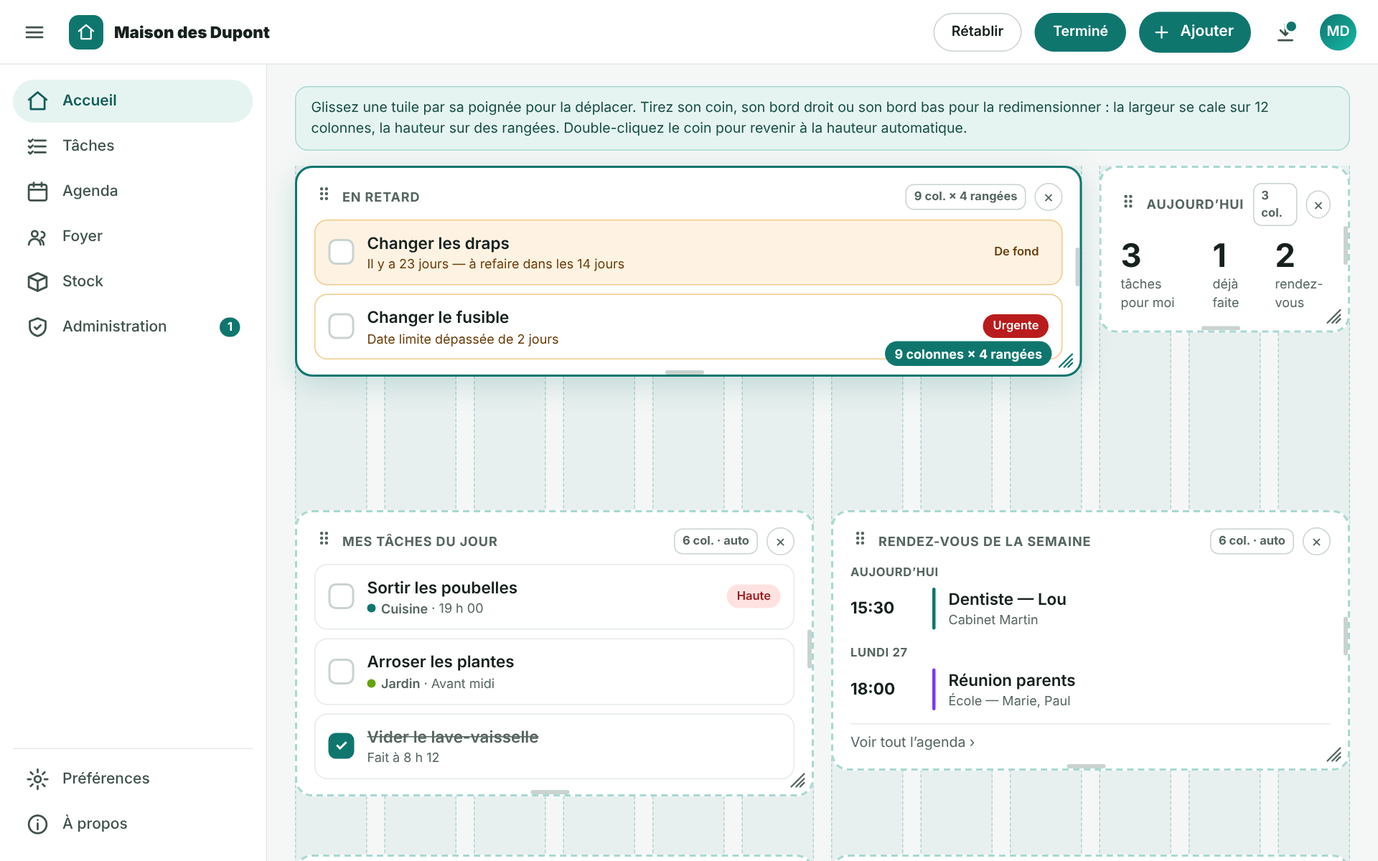
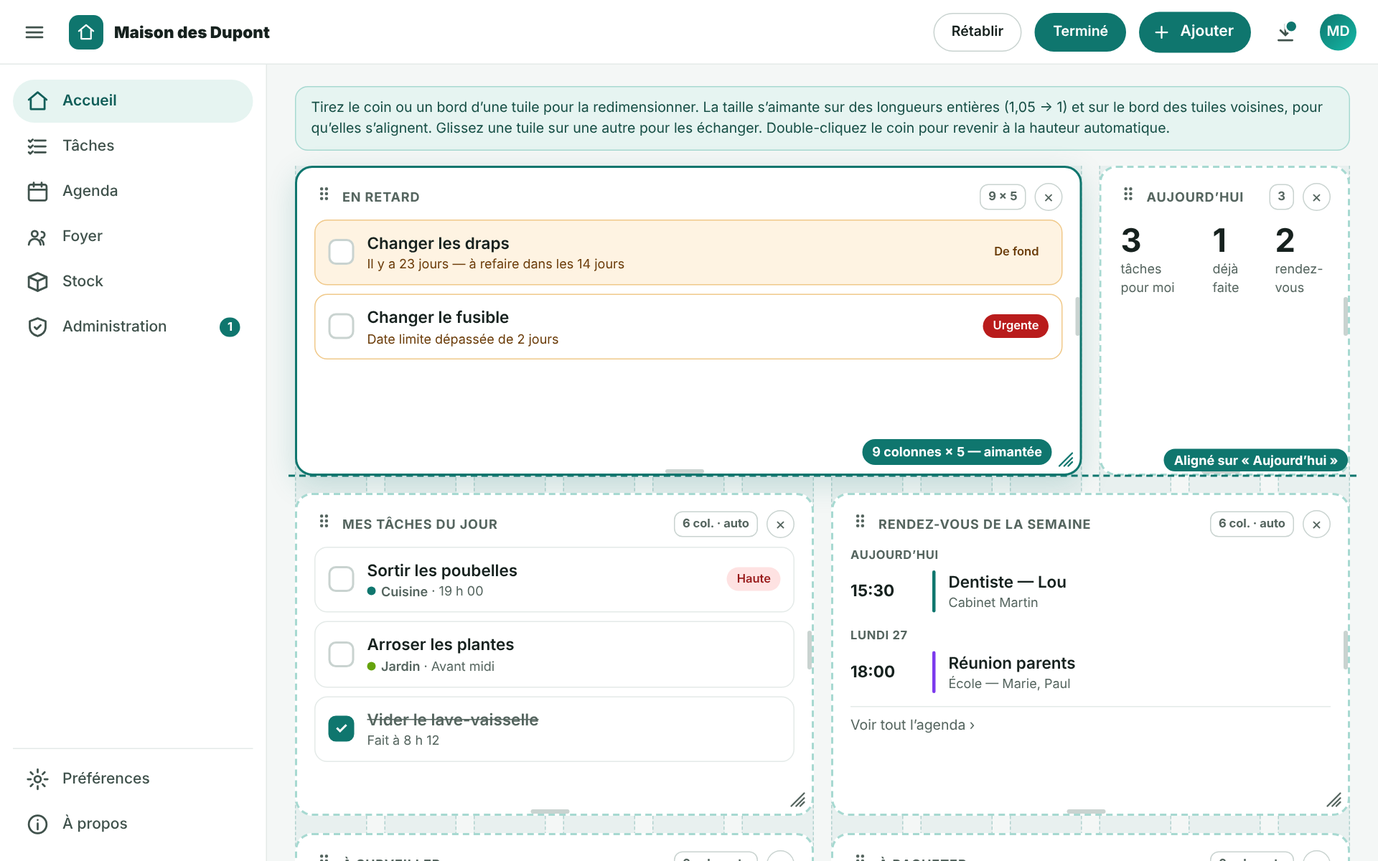
Maquettes : tuiles aimantées (longueurs entières, bord des voisines) et échange de deux tuiles
Claude-Session: https://claude.ai/code/session_01CwM8UZavZyFdh7jkANxEp5

diff --git a/docs/mockups/cadre/31-accueil-redimensionner.html b/docs/mockups/cadre/31-accueil-redimensionner.html
@@ -12,5 +12,5 @@
   <a class=" point" href="#"><svg viewBox="0 0 24 24" width="22" height="22" fill="none" stroke="currentColor" stroke-width="2" stroke-linecap="round" stroke-linejoin="round"><path d="M12 3 4 6v6c0 4.5 3.4 8 8 9 4.6-1 8-4.5 8-9V6z"/><path d="m9 12 2 2 4-4"/></svg><span>Administration</span><span class="pastille">1</span></a>
   <div class="bas"><a class=" " href="#"><svg viewBox="0 0 24 24" width="22" height="22" fill="none" stroke="currentColor" stroke-width="2" stroke-linecap="round" stroke-linejoin="round"><circle cx="12" cy="12" r="3.2"/><path d="M12 2v3M12 19v3M2 12h3M19 12h3M4.9 4.9l2.1 2.1M17 17l2.1 2.1M4.9 19.1 7 17M17 7l2.1-2.1"/></svg><span>Préférences</span></a><a class=" " href="#"><svg viewBox="0 0 24 24" width="22" height="22" fill="none" stroke="currentColor" stroke-width="2" stroke-linecap="round" stroke-linejoin="round"><circle cx="12" cy="12" r="9"/><path d="M12 11v6M12 7.5h.01"/></svg><span>À propos</span></a></div>
   
-</nav><div class="principal"><main class="contenu" style="gap:14px;padding:20px 26px;overflow:hidden"><div class="bandeau-edition">Glissez une tuile par sa poignée pour la déplacer. Tirez son coin, son bord droit ou son bord bas pour la redimensionner : la largeur se cale sur 12 colonnes, la hauteur sur des rangées. Double-cliquez le coin pour revenir à la hauteur automatique.</div><div class="tuiles edition libres"><div class="guides"><i></i><i></i><i></i><i></i><i></i><i></i><i></i><i></i><i></i><i></i><i></i><i></i></div><section class="tuile t8 saisie-en-cours" style="grid-column:span 9;grid-row:span 4"><div class="tete"><span class="poignee"><svg viewBox="0 0 24 24" width="18" height="18" fill="none" stroke="currentColor" stroke-width="2" stroke-linecap="round" stroke-linejoin="round"><circle cx="9" cy="6" r="1"/><circle cx="15" cy="6" r="1"/><circle cx="9" cy="12" r="1"/><circle cx="15" cy="12" r="1"/><circle cx="9" cy="18" r="1"/><circle cx="15" cy="18" r="1"/></svg></span><h2>En retard</h2><span class="taille-texte">9 col. × 4 rangées</span><span class="retirer">×</span></div><div class="carte retard fond"><div class="ligne"><div class="case"></div><div style="flex:1;min-width:0"><h3>Changer les draps</h3><p class="muet alerte">Il y a 23 jours — à refaire dans les 14 jours</p></div><span class="etiquette fond">De fond</span></div></div><div class="carte retard"><div class="ligne"><div class="case"></div><div style="flex:1;min-width:0"><h3>Changer le fusible</h3><p class="muet alerte">Date limite dépassée de 2 jours</p></div><span class="etiquette urgente">Urgente</span></div></div><span class="bord-d"></span><span class="bord-b"></span><svg class="coin" viewBox="0 0 24 24" fill="none" stroke="currentColor" stroke-width="2" stroke-linecap="round"><path d="M20 10 10 20M20 15l-5 5M20 4 4 20"/></svg><span class="mesure">9 colonnes × 4 rangées</span></section><section class="tuile t4" style="grid-column:span 3;grid-row:span 3"><div class="tete"><span class="poignee"><svg viewBox="0 0 24 24" width="18" height="18" fill="none" stroke="currentColor" stroke-width="2" stroke-linecap="round" stroke-linejoin="round"><circle cx="9" cy="6" r="1"/><circle cx="15" cy="6" r="1"/><circle cx="9" cy="12" r="1"/><circle cx="15" cy="12" r="1"/><circle cx="9" cy="18" r="1"/><circle cx="15" cy="18" r="1"/></svg></span><h2>Aujourd’hui</h2><span class="taille-texte">3 col.</span><span class="retirer">×</span></div><div class="ligne" style="gap:22px;padding:4px 2px"><div><div class="chiffre">3</div><p class="muet">tâches pour moi</p></div><div><div class="chiffre" style="color:var(--succes)">1</div><p class="muet">déjà faite</p></div><div><div class="chiffre">2</div><p class="muet">rendez-vous</p></div></div><span class="bord-d"></span><span class="bord-b"></span><svg class="coin" viewBox="0 0 24 24" fill="none" stroke="currentColor" stroke-width="2" stroke-linecap="round"><path d="M20 10 10 20M20 15l-5 5M20 4 4 20"/></svg></section><section class="tuile t6" style="grid-row:span 4"><div class="tete"><span class="poignee"><svg viewBox="0 0 24 24" width="18" height="18" fill="none" stroke="currentColor" stroke-width="2" stroke-linecap="round" stroke-linejoin="round"><circle cx="9" cy="6" r="1"/><circle cx="15" cy="6" r="1"/><circle cx="9" cy="12" r="1"/><circle cx="15" cy="12" r="1"/><circle cx="9" cy="18" r="1"/><circle cx="15" cy="18" r="1"/></svg></span><h2>Mes tâches du jour</h2><span class="taille-texte">6 col. · auto</span><span class="retirer">×</span></div><div class="carte"><div class="ligne"><div class="case"></div><div style="flex:1;min-width:0"><h3>Sortir les poubelles</h3><p class="muet "><span class="groupe-tache"><i style="background:#0F766E"></i>Cuisine</span> · 19 h 00</p></div><span class="etiquette haute">Haute</span></div></div><div class="carte"><div class="ligne"><div class="case"></div><div style="flex:1;min-width:0"><h3>Arroser les plantes</h3><p class="muet "><span class="groupe-tache"><i style="background:#65A30D"></i>Jardin</span> · Avant midi</p></div></div></div><div class="carte fait"><div class="ligne"><div class="case cochee">✓</div><div style="flex:1;min-width:0"><h3>Vider le lave-vaisselle</h3><p class="muet ">Fait à 8 h 12</p></div></div></div><span class="bord-d"></span><span class="bord-b"></span><svg class="coin" viewBox="0 0 24 24" fill="none" stroke="currentColor" stroke-width="2" stroke-linecap="round"><path d="M20 10 10 20M20 15l-5 5M20 4 4 20"/></svg></section><section class="tuile t6" style="grid-row:span 4"><div class="tete"><span class="poignee"><svg viewBox="0 0 24 24" width="18" height="18" fill="none" stroke="currentColor" stroke-width="2" stroke-linecap="round" stroke-linejoin="round"><circle cx="9" cy="6" r="1"/><circle cx="15" cy="6" r="1"/><circle cx="9" cy="12" r="1"/><circle cx="15" cy="12" r="1"/><circle cx="9" cy="18" r="1"/><circle cx="15" cy="18" r="1"/></svg></span><h2>Rendez-vous de la semaine</h2><span class="taille-texte">6 col. · auto</span><span class="retirer">×</span></div><div><div class="jour-rdv" style="padding-top:0">Aujourd’hui</div><div class="rdv"><span class="heure">15:30</span><span class="trait" style="background:#0F766E"></span><div><h3>Dentiste — Lou</h3><p class="muet">Cabinet Martin</p></div></div><div class="jour-rdv">Lundi 27</div><div class="rdv"><span class="heure">18:00</span><span class="trait" style="background:#7C3AED"></span><div><h3>Réunion parents</h3><p class="muet">École — Marie, Paul</p></div></div><div class="lien">Voir tout l’agenda ›</div></div><span class="bord-d"></span><span class="bord-b"></span><svg class="coin" viewBox="0 0 24 24" fill="none" stroke="currentColor" stroke-width="2" stroke-linecap="round"><path d="M20 10 10 20M20 15l-5 5M20 4 4 20"/></svg></section><section class="tuile t6" style="grid-row:span 4"><div class="tete"><span class="poignee"><svg viewBox="0 0 24 24" width="18" height="18" fill="none" stroke="currentColor" stroke-width="2" stroke-linecap="round" stroke-linejoin="round"><circle cx="9" cy="6" r="1"/><circle cx="15" cy="6" r="1"/><circle cx="9" cy="12" r="1"/><circle cx="15" cy="12" r="1"/><circle cx="9" cy="18" r="1"/><circle cx="15" cy="18" r="1"/></svg></span><h2>À surveiller</h2><span class="taille-texte">6 col. · auto</span><span class="retirer">×</span></div><div class="carte"><div class="ligne"><div style="flex:1"><h3>Détartrer la bouilloire</h3><p class="muet">Il y a 25 jours — à refaire dans les 30 jours</p></div><span style="font-size:13px;font-weight:600;color:var(--accent)">C’est fait</span></div><div class="jauge"><span style="width:83%;background:#B45309"></span></div></div><span class="bord-d"></span><span class="bord-b"></span><svg class="coin" viewBox="0 0 24 24" fill="none" stroke="currentColor" stroke-width="2" stroke-linecap="round"><path d="M20 10 10 20M20 15l-5 5M20 4 4 20"/></svg></section><section class="tuile t6" style="grid-row:span 4"><div class="tete"><span class="poignee"><svg viewBox="0 0 24 24" width="18" height="18" fill="none" stroke="currentColor" stroke-width="2" stroke-linecap="round" stroke-linejoin="round"><circle cx="9" cy="6" r="1"/><circle cx="15" cy="6" r="1"/><circle cx="9" cy="12" r="1"/><circle cx="15" cy="12" r="1"/><circle cx="9" cy="18" r="1"/><circle cx="15" cy="18" r="1"/></svg></span><h2>À racheter</h2><span class="taille-texte">6 col. · auto</span><span class="retirer">×</span></div><div class="carte"><div class="ligne"><span class="vignette" style="background:#78350F"><svg viewBox="0 0 24 24" width="16" height="16" fill="none" stroke="currentColor" stroke-width="2" stroke-linecap="round" stroke-linejoin="round"><path d="M4 8h13v6a5 5 0 0 1-5 5H9a5 5 0 0 1-5-5zM17 10h2a2 2 0 0 1 0 4h-2M8 3v2M12 3v2"/></svg></span><div style="flex:1"><h3>Café en grains</h3><p class="muet">Garde-manger · 1 sur 2 minimum</p></div><span class="lien-ext">Racheter ↗</span></div></div><div class="carte"><div class="ligne"><span class="vignette" style="background:#65A30D"><svg viewBox="0 0 24 24" width="16" height="16" fill="none" stroke="currentColor" stroke-width="2" stroke-linecap="round" stroke-linejoin="round"><path d="M12 7c-2-2-7-1.5-7 4 0 5 3 9 5 9 1 0 1.5-.5 2-.5s1 .5 2 .5c2 0 5-4 5-9 0-5.5-5-6-7-4zM12 7c0-2 1-4 3-4"/></svg></span><div style="flex:1"><h3>Compote</h3><p class="muet alerte">Périmée depuis 2 jours</p></div></div></div><div class="carte"><div class="ligne"><span class="vignette" style="background:#B91C1C"><svg viewBox="0 0 24 24" width="16" height="16" fill="none" stroke="currentColor" stroke-width="2" stroke-linecap="round" stroke-linejoin="round"><ellipse cx="12" cy="5" rx="7" ry="2.5"/><path d="M5 5v14c0 1.4 3.1 2.5 7 2.5s7-1.1 7-2.5V5"/></svg></span><div style="flex:1"><h3>Tomates pelées</h3><p class="muet">Périment dans 9 jours</p></div></div></div><span class="bord-d"></span><span class="bord-b"></span><svg class="coin" viewBox="0 0 24 24" fill="none" stroke="currentColor" stroke-width="2" stroke-linecap="round"><path d="M20 10 10 20M20 15l-5 5M20 4 4 20"/></svg></section><section class="tuile t6" style="grid-row:span 4"><div class="tete"><span class="poignee"><svg viewBox="0 0 24 24" width="18" height="18" fill="none" stroke="currentColor" stroke-width="2" stroke-linecap="round" stroke-linejoin="round"><circle cx="9" cy="6" r="1"/><circle cx="15" cy="6" r="1"/><circle cx="9" cy="12" r="1"/><circle cx="15" cy="12" r="1"/><circle cx="9" cy="18" r="1"/><circle cx="15" cy="18" r="1"/></svg></span><h2>À faire par les autres</h2><span class="taille-texte">6 col. · auto</span><span class="retirer">×</span></div><div class="carte"><div class="ligne"><span class="photo" style="width:28px;height:28px;font-size:11px;background:#7C3AED">L</span><div style="flex:1"><h3>Passer l’aspirateur</h3><p class="muet">Aujourd’hui</p></div></div></div><div class="carte"><div class="ligne"><span class="photo" style="width:28px;height:28px;font-size:11px;background:#B45309">P</span><div style="flex:1"><h3>Promener le chien</h3><p class="muet">18 h 30</p></div></div></div><span class="bord-d"></span><span class="bord-b"></span><svg class="coin" viewBox="0 0 24 24" fill="none" stroke="currentColor" stroke-width="2" stroke-linecap="round"><path d="M20 10 10 20M20 15l-5 5M20 4 4 20"/></svg></section><div class="ajout-tuile"><span style="font-size:26px;line-height:1">+</span>Ajouter une tuile</div></div></main></div></div>
+</nav><div class="principal"><main class="contenu" style="gap:14px;padding:20px 26px;overflow:hidden"><div class="bandeau-edition">Tirez le coin ou un bord d’une tuile pour la redimensionner. La taille s’aimante sur des longueurs entières (1,05 → 1) et sur le bord des tuiles voisines, pour qu’elles s’alignent. Glissez une tuile sur une autre pour les échanger. Double-cliquez le coin pour revenir à la hauteur automatique.</div><div class="tuiles edition libres" style="grid-auto-rows:auto"><div class="repere" style="top:287px"><span>Aligné sur « Aujourd’hui »</span></div><div class="guides"><i></i><i></i><i></i><i></i><i></i><i></i><i></i><i></i><i></i><i></i><i></i><i></i></div><section class="tuile t8 saisie-en-cours" style="grid-column:span 9;height:288px"><div class="tete"><span class="poignee"><svg viewBox="0 0 24 24" width="18" height="18" fill="none" stroke="currentColor" stroke-width="2" stroke-linecap="round" stroke-linejoin="round"><circle cx="9" cy="6" r="1"/><circle cx="15" cy="6" r="1"/><circle cx="9" cy="12" r="1"/><circle cx="15" cy="12" r="1"/><circle cx="9" cy="18" r="1"/><circle cx="15" cy="18" r="1"/></svg></span><h2>En retard</h2><span class="taille-texte">9 × 5</span><span class="retirer">×</span></div><div class="carte retard fond"><div class="ligne"><div class="case"></div><div style="flex:1;min-width:0"><h3>Changer les draps</h3><p class="muet alerte">Il y a 23 jours — à refaire dans les 14 jours</p></div><span class="etiquette fond">De fond</span></div></div><div class="carte retard"><div class="ligne"><div class="case"></div><div style="flex:1;min-width:0"><h3>Changer le fusible</h3><p class="muet alerte">Date limite dépassée de 2 jours</p></div><span class="etiquette urgente">Urgente</span></div></div><span class="bord-d"></span><span class="bord-b"></span><svg class="coin" viewBox="0 0 24 24" fill="none" stroke="currentColor" stroke-width="2" stroke-linecap="round"><path d="M20 10 10 20M20 15l-5 5M20 4 4 20"/></svg><span class="mesure">9 colonnes × 5 — aimantée</span></section><section class="tuile t4" style="grid-column:span 3;height:288px"><div class="tete"><span class="poignee"><svg viewBox="0 0 24 24" width="18" height="18" fill="none" stroke="currentColor" stroke-width="2" stroke-linecap="round" stroke-linejoin="round"><circle cx="9" cy="6" r="1"/><circle cx="15" cy="6" r="1"/><circle cx="9" cy="12" r="1"/><circle cx="15" cy="12" r="1"/><circle cx="9" cy="18" r="1"/><circle cx="15" cy="18" r="1"/></svg></span><h2>Aujourd’hui</h2><span class="taille-texte">3</span><span class="retirer">×</span></div><div class="ligne" style="gap:22px;padding:4px 2px"><div><div class="chiffre">3</div><p class="muet">tâches pour moi</p></div><div><div class="chiffre" style="color:var(--succes)">1</div><p class="muet">déjà faite</p></div><div><div class="chiffre">2</div><p class="muet">rendez-vous</p></div></div><span class="bord-d"></span><span class="bord-b"></span><svg class="coin" viewBox="0 0 24 24" fill="none" stroke="currentColor" stroke-width="2" stroke-linecap="round"><path d="M20 10 10 20M20 15l-5 5M20 4 4 20"/></svg></section><section class="tuile t6" style="height:300px"><div class="tete"><span class="poignee"><svg viewBox="0 0 24 24" width="18" height="18" fill="none" stroke="currentColor" stroke-width="2" stroke-linecap="round" stroke-linejoin="round"><circle cx="9" cy="6" r="1"/><circle cx="15" cy="6" r="1"/><circle cx="9" cy="12" r="1"/><circle cx="15" cy="12" r="1"/><circle cx="9" cy="18" r="1"/><circle cx="15" cy="18" r="1"/></svg></span><h2>Mes tâches du jour</h2><span class="taille-texte">6 col. · auto</span><span class="retirer">×</span></div><div class="carte"><div class="ligne"><div class="case"></div><div style="flex:1;min-width:0"><h3>Sortir les poubelles</h3><p class="muet "><span class="groupe-tache"><i style="background:#0F766E"></i>Cuisine</span> · 19 h 00</p></div><span class="etiquette haute">Haute</span></div></div><div class="carte"><div class="ligne"><div class="case"></div><div style="flex:1;min-width:0"><h3>Arroser les plantes</h3><p class="muet "><span class="groupe-tache"><i style="background:#65A30D"></i>Jardin</span> · Avant midi</p></div></div></div><div class="carte fait"><div class="ligne"><div class="case cochee">✓</div><div style="flex:1;min-width:0"><h3>Vider le lave-vaisselle</h3><p class="muet ">Fait à 8 h 12</p></div></div></div><span class="bord-d"></span><span class="bord-b"></span><svg class="coin" viewBox="0 0 24 24" fill="none" stroke="currentColor" stroke-width="2" stroke-linecap="round"><path d="M20 10 10 20M20 15l-5 5M20 4 4 20"/></svg></section><section class="tuile t6" style="height:300px"><div class="tete"><span class="poignee"><svg viewBox="0 0 24 24" width="18" height="18" fill="none" stroke="currentColor" stroke-width="2" stroke-linecap="round" stroke-linejoin="round"><circle cx="9" cy="6" r="1"/><circle cx="15" cy="6" r="1"/><circle cx="9" cy="12" r="1"/><circle cx="15" cy="12" r="1"/><circle cx="9" cy="18" r="1"/><circle cx="15" cy="18" r="1"/></svg></span><h2>Rendez-vous de la semaine</h2><span class="taille-texte">6 col. · auto</span><span class="retirer">×</span></div><div><div class="jour-rdv" style="padding-top:0">Aujourd’hui</div><div class="rdv"><span class="heure">15:30</span><span class="trait" style="background:#0F766E"></span><div><h3>Dentiste — Lou</h3><p class="muet">Cabinet Martin</p></div></div><div class="jour-rdv">Lundi 27</div><div class="rdv"><span class="heure">18:00</span><span class="trait" style="background:#7C3AED"></span><div><h3>Réunion parents</h3><p class="muet">École — Marie, Paul</p></div></div><div class="lien">Voir tout l’agenda ›</div></div><span class="bord-d"></span><span class="bord-b"></span><svg class="coin" viewBox="0 0 24 24" fill="none" stroke="currentColor" stroke-width="2" stroke-linecap="round"><path d="M20 10 10 20M20 15l-5 5M20 4 4 20"/></svg></section><section class="tuile t6" style="height:300px"><div class="tete"><span class="poignee"><svg viewBox="0 0 24 24" width="18" height="18" fill="none" stroke="currentColor" stroke-width="2" stroke-linecap="round" stroke-linejoin="round"><circle cx="9" cy="6" r="1"/><circle cx="15" cy="6" r="1"/><circle cx="9" cy="12" r="1"/><circle cx="15" cy="12" r="1"/><circle cx="9" cy="18" r="1"/><circle cx="15" cy="18" r="1"/></svg></span><h2>À surveiller</h2><span class="taille-texte">6 col. · auto</span><span class="retirer">×</span></div><div class="carte"><div class="ligne"><div style="flex:1"><h3>Détartrer la bouilloire</h3><p class="muet">Il y a 25 jours — à refaire dans les 30 jours</p></div><span style="font-size:13px;font-weight:600;color:var(--accent)">C’est fait</span></div><div class="jauge"><span style="width:83%;background:#B45309"></span></div></div><span class="bord-d"></span><span class="bord-b"></span><svg class="coin" viewBox="0 0 24 24" fill="none" stroke="currentColor" stroke-width="2" stroke-linecap="round"><path d="M20 10 10 20M20 15l-5 5M20 4 4 20"/></svg></section><section class="tuile t6" style="height:300px"><div class="tete"><span class="poignee"><svg viewBox="0 0 24 24" width="18" height="18" fill="none" stroke="currentColor" stroke-width="2" stroke-linecap="round" stroke-linejoin="round"><circle cx="9" cy="6" r="1"/><circle cx="15" cy="6" r="1"/><circle cx="9" cy="12" r="1"/><circle cx="15" cy="12" r="1"/><circle cx="9" cy="18" r="1"/><circle cx="15" cy="18" r="1"/></svg></span><h2>À racheter</h2><span class="taille-texte">6 col. · auto</span><span class="retirer">×</span></div><div class="carte"><div class="ligne"><span class="vignette" style="background:#78350F"><svg viewBox="0 0 24 24" width="16" height="16" fill="none" stroke="currentColor" stroke-width="2" stroke-linecap="round" stroke-linejoin="round"><path d="M4 8h13v6a5 5 0 0 1-5 5H9a5 5 0 0 1-5-5zM17 10h2a2 2 0 0 1 0 4h-2M8 3v2M12 3v2"/></svg></span><div style="flex:1"><h3>Café en grains</h3><p class="muet">Garde-manger · 1 sur 2 minimum</p></div><span class="lien-ext">Racheter ↗</span></div></div><div class="carte"><div class="ligne"><span class="vignette" style="background:#65A30D"><svg viewBox="0 0 24 24" width="16" height="16" fill="none" stroke="currentColor" stroke-width="2" stroke-linecap="round" stroke-linejoin="round"><path d="M12 7c-2-2-7-1.5-7 4 0 5 3 9 5 9 1 0 1.5-.5 2-.5s1 .5 2 .5c2 0 5-4 5-9 0-5.5-5-6-7-4zM12 7c0-2 1-4 3-4"/></svg></span><div style="flex:1"><h3>Compote</h3><p class="muet alerte">Périmée depuis 2 jours</p></div></div></div><div class="carte"><div class="ligne"><span class="vignette" style="background:#B91C1C"><svg viewBox="0 0 24 24" width="16" height="16" fill="none" stroke="currentColor" stroke-width="2" stroke-linecap="round" stroke-linejoin="round"><ellipse cx="12" cy="5" rx="7" ry="2.5"/><path d="M5 5v14c0 1.4 3.1 2.5 7 2.5s7-1.1 7-2.5V5"/></svg></span><div style="flex:1"><h3>Tomates pelées</h3><p class="muet">Périment dans 9 jours</p></div></div></div><span class="bord-d"></span><span class="bord-b"></span><svg class="coin" viewBox="0 0 24 24" fill="none" stroke="currentColor" stroke-width="2" stroke-linecap="round"><path d="M20 10 10 20M20 15l-5 5M20 4 4 20"/></svg></section><section class="tuile t6" style="height:300px"><div class="tete"><span class="poignee"><svg viewBox="0 0 24 24" width="18" height="18" fill="none" stroke="currentColor" stroke-width="2" stroke-linecap="round" stroke-linejoin="round"><circle cx="9" cy="6" r="1"/><circle cx="15" cy="6" r="1"/><circle cx="9" cy="12" r="1"/><circle cx="15" cy="12" r="1"/><circle cx="9" cy="18" r="1"/><circle cx="15" cy="18" r="1"/></svg></span><h2>À faire par les autres</h2><span class="taille-texte">6 col. · auto</span><span class="retirer">×</span></div><div class="carte"><div class="ligne"><span class="photo" style="width:28px;height:28px;font-size:11px;background:#7C3AED">L</span><div style="flex:1"><h3>Passer l’aspirateur</h3><p class="muet">Aujourd’hui</p></div></div></div><div class="carte"><div class="ligne"><span class="photo" style="width:28px;height:28px;font-size:11px;background:#B45309">P</span><div style="flex:1"><h3>Promener le chien</h3><p class="muet">18 h 30</p></div></div></div><span class="bord-d"></span><span class="bord-b"></span><svg class="coin" viewBox="0 0 24 24" fill="none" stroke="currentColor" stroke-width="2" stroke-linecap="round"><path d="M20 10 10 20M20 15l-5 5M20 4 4 20"/></svg></section><div class="ajout-tuile"><span style="font-size:26px;line-height:1">+</span>Ajouter une tuile</div></div></main></div></div>
 </body></html>

diff --git a/docs/mockups/cadre/33-accueil-echanger.html b/docs/mockups/cadre/33-accueil-echanger.html
@@ -1,0 +1,16 @@
+<!doctype html>
+<html lang="fr"><head><meta charset="utf-8"><title>Échanger deux tuiles</title><link rel="stylesheet" href="cadre.css"></head>
+<body class="ordi">
+<header class="barre">
+  <div class="icone" title="Replier ou déplier le menu"><svg viewBox="0 0 24 24" width="22" height="22" fill="none" stroke="currentColor" stroke-width="2" stroke-linecap="round" stroke-linejoin="round"><path d="M4 7h16M4 12h16M4 17h16"/></svg></div>
+  <div class="marque"><span class="logo"><svg viewBox="0 0 24 24" width="18" height="18" fill="none" stroke="currentColor" stroke-width="2" stroke-linecap="round" stroke-linejoin="round"><path d="M3 10.5 12 3l9 7.5"/><path d="M6 9.5V20h12V9.5"/></svg></span><b>Maison des Dupont</b></div>
+  <span class="bouton">Rétablir</span><span class="bouton primaire">Terminé</span><div class="ajouter"><svg viewBox="0 0 24 24" width="18" height="18" fill="none" stroke="currentColor" stroke-width="2" stroke-linecap="round" stroke-linejoin="round"><path d="M12 5v14M5 12h14"/></svg>Ajouter</div>
+  <div class="icone point" title="Mise à jour du serveur disponible"><svg viewBox="0 0 24 24" width="22" height="22" fill="none" stroke="currentColor" stroke-width="2" stroke-linecap="round" stroke-linejoin="round"><path d="M12 4v11M7 10l5 5 5-5M5 20h14"/></svg></div>
+  <span class="photo">MD</span>
+</header><div class="dessous"><nav class="nav ">
+  <a class="actif " href="#"><svg viewBox="0 0 24 24" width="22" height="22" fill="none" stroke="currentColor" stroke-width="2" stroke-linecap="round" stroke-linejoin="round"><path d="M3 10.5 12 3l9 7.5"/><path d="M5 10v10h14V10"/></svg><span>Accueil</span></a><a class=" " href="#"><svg viewBox="0 0 24 24" width="22" height="22" fill="none" stroke="currentColor" stroke-width="2" stroke-linecap="round" stroke-linejoin="round"><path d="M9 6h11M9 12h11M9 18h11"/><path d="m3 6 1.5 1.5L7 5M3 12l1.5 1.5L7 11M3 18l1.5 1.5L7 17"/></svg><span>Tâches</span></a><a class=" " href="#"><svg viewBox="0 0 24 24" width="22" height="22" fill="none" stroke="currentColor" stroke-width="2" stroke-linecap="round" stroke-linejoin="round"><rect x="3" y="5" width="18" height="16" rx="2"/><path d="M8 3v4M16 3v4M3 10h18"/></svg><span>Agenda</span></a><a class=" " href="#"><svg viewBox="0 0 24 24" width="22" height="22" fill="none" stroke="currentColor" stroke-width="2" stroke-linecap="round" stroke-linejoin="round"><circle cx="9" cy="9" r="3"/><path d="M3 20a6 6 0 0 1 12 0M16 7a3 3 0 0 1 0 6M18 20a6 6 0 0 0-3-5.2"/></svg><span>Foyer</span></a><a class="" href="#"><svg viewBox="0 0 24 24" width="22" height="22" fill="none" stroke="currentColor" stroke-width="2" stroke-linecap="round" stroke-linejoin="round"><path d="M3 7l9-4 9 4v10l-9 4-9-4z"/><path d="M3 7l9 4 9-4M12 11v10"/></svg><span>Stock</span></a>
+  <a class=" point" href="#"><svg viewBox="0 0 24 24" width="22" height="22" fill="none" stroke="currentColor" stroke-width="2" stroke-linecap="round" stroke-linejoin="round"><path d="M12 3 4 6v6c0 4.5 3.4 8 8 9 4.6-1 8-4.5 8-9V6z"/><path d="m9 12 2 2 4-4"/></svg><span>Administration</span><span class="pastille">1</span></a>
+  <div class="bas"><a class=" " href="#"><svg viewBox="0 0 24 24" width="22" height="22" fill="none" stroke="currentColor" stroke-width="2" stroke-linecap="round" stroke-linejoin="round"><circle cx="12" cy="12" r="3.2"/><path d="M12 2v3M12 19v3M2 12h3M19 12h3M4.9 4.9l2.1 2.1M17 17l2.1 2.1M4.9 19.1 7 17M17 7l2.1-2.1"/></svg><span>Préférences</span></a><a class=" " href="#"><svg viewBox="0 0 24 24" width="22" height="22" fill="none" stroke="currentColor" stroke-width="2" stroke-linecap="round" stroke-linejoin="round"><circle cx="12" cy="12" r="9"/><path d="M12 11v6M12 7.5h.01"/></svg><span>À propos</span></a></div>
+  
+</nav><div class="principal"><main class="contenu" style="gap:14px;padding:20px 26px;overflow:hidden"><div class="bandeau-edition">Lâchez la tuile sur une autre : elles échangent leur place, et chacune garde sa taille. Lâchée entre deux tuiles, elle s’insère.</div><div class="tuiles edition" style="position:relative"><section class="tuile t8"><div class="tete"><span class="poignee"><svg viewBox="0 0 24 24" width="18" height="18" fill="none" stroke="currentColor" stroke-width="2" stroke-linecap="round" stroke-linejoin="round"><circle cx="9" cy="6" r="1"/><circle cx="15" cy="6" r="1"/><circle cx="9" cy="12" r="1"/><circle cx="15" cy="12" r="1"/><circle cx="9" cy="18" r="1"/><circle cx="15" cy="18" r="1"/></svg></span><h2>En retard</h2><span class="retirer">×</span></div><div class="carte retard fond"><div class="ligne"><div class="case"></div><div style="flex:1;min-width:0"><h3>Changer les draps</h3><p class="muet alerte">Il y a 23 jours — à refaire dans les 14 jours</p></div><span class="etiquette fond">De fond</span></div></div><div class="carte retard"><div class="ligne"><div class="case"></div><div style="flex:1;min-width:0"><h3>Changer le fusible</h3><p class="muet alerte">Date limite dépassée de 2 jours</p></div><span class="etiquette urgente">Urgente</span></div></div></section><section class="tuile t4"><div class="tete"><span class="poignee"><svg viewBox="0 0 24 24" width="18" height="18" fill="none" stroke="currentColor" stroke-width="2" stroke-linecap="round" stroke-linejoin="round"><circle cx="9" cy="6" r="1"/><circle cx="15" cy="6" r="1"/><circle cx="9" cy="12" r="1"/><circle cx="15" cy="12" r="1"/><circle cx="9" cy="18" r="1"/><circle cx="15" cy="18" r="1"/></svg></span><h2>Aujourd’hui</h2><span class="retirer">×</span></div><div class="ligne" style="gap:22px;padding:4px 2px"><div><div class="chiffre">3</div><p class="muet">tâches pour moi</p></div><div><div class="chiffre" style="color:var(--succes)">1</div><p class="muet">déjà faite</p></div><div><div class="chiffre">2</div><p class="muet">rendez-vous</p></div></div></section><section class="tuile t6  souleve"><div class="tete"><span class="poignee"><svg viewBox="0 0 24 24" width="18" height="18" fill="none" stroke="currentColor" stroke-width="2" stroke-linecap="round" stroke-linejoin="round"><circle cx="9" cy="6" r="1"/><circle cx="15" cy="6" r="1"/><circle cx="9" cy="12" r="1"/><circle cx="15" cy="12" r="1"/><circle cx="9" cy="18" r="1"/><circle cx="15" cy="18" r="1"/></svg></span><h2>Mes tâches du jour</h2><span class="retirer">×</span></div><div class="carte"><div class="ligne"><div class="case"></div><div style="flex:1;min-width:0"><h3>Sortir les poubelles</h3><p class="muet "><span class="groupe-tache"><i style="background:#0F766E"></i>Cuisine</span> · 19 h 00</p></div><span class="etiquette haute">Haute</span></div></div><div class="carte"><div class="ligne"><div class="case"></div><div style="flex:1;min-width:0"><h3>Arroser les plantes</h3><p class="muet "><span class="groupe-tache"><i style="background:#65A30D"></i>Jardin</span> · Avant midi</p></div></div></div><div class="carte fait"><div class="ligne"><div class="case cochee">✓</div><div style="flex:1;min-width:0"><h3>Vider le lave-vaisselle</h3><p class="muet ">Fait à 8 h 12</p></div></div></div></section><section class="tuile t6 cible"><div class="tete"><span class="poignee"><svg viewBox="0 0 24 24" width="18" height="18" fill="none" stroke="currentColor" stroke-width="2" stroke-linecap="round" stroke-linejoin="round"><circle cx="9" cy="6" r="1"/><circle cx="15" cy="6" r="1"/><circle cx="9" cy="12" r="1"/><circle cx="15" cy="12" r="1"/><circle cx="9" cy="18" r="1"/><circle cx="15" cy="18" r="1"/></svg></span><h2>Rendez-vous de la semaine</h2><span class="retirer">×</span></div><div><div class="jour-rdv" style="padding-top:0">Aujourd’hui</div><div class="rdv"><span class="heure">15:30</span><span class="trait" style="background:#0F766E"></span><div><h3>Dentiste — Lou</h3><p class="muet">Cabinet Martin</p></div></div><div class="jour-rdv">Lundi 27</div><div class="rdv"><span class="heure">18:00</span><span class="trait" style="background:#7C3AED"></span><div><h3>Réunion parents</h3><p class="muet">École — Marie, Paul</p></div></div><div class="lien">Voir tout l’agenda ›</div></div><span class="echange">⇄ Échanger avec « Mes tâches du jour »</span></section><section class="tuile t6"><div class="tete"><span class="poignee"><svg viewBox="0 0 24 24" width="18" height="18" fill="none" stroke="currentColor" stroke-width="2" stroke-linecap="round" stroke-linejoin="round"><circle cx="9" cy="6" r="1"/><circle cx="15" cy="6" r="1"/><circle cx="9" cy="12" r="1"/><circle cx="15" cy="12" r="1"/><circle cx="9" cy="18" r="1"/><circle cx="15" cy="18" r="1"/></svg></span><h2>À surveiller</h2><span class="retirer">×</span></div><div class="carte"><div class="ligne"><div style="flex:1"><h3>Détartrer la bouilloire</h3><p class="muet">Il y a 25 jours — à refaire dans les 30 jours</p></div><span style="font-size:13px;font-weight:600;color:var(--accent)">C’est fait</span></div><div class="jauge"><span style="width:83%;background:#B45309"></span></div></div></section><section class="tuile t6"><div class="tete"><span class="poignee"><svg viewBox="0 0 24 24" width="18" height="18" fill="none" stroke="currentColor" stroke-width="2" stroke-linecap="round" stroke-linejoin="round"><circle cx="9" cy="6" r="1"/><circle cx="15" cy="6" r="1"/><circle cx="9" cy="12" r="1"/><circle cx="15" cy="12" r="1"/><circle cx="9" cy="18" r="1"/><circle cx="15" cy="18" r="1"/></svg></span><h2>À racheter</h2><span class="retirer">×</span></div><div class="carte"><div class="ligne"><span class="vignette" style="background:#78350F"><svg viewBox="0 0 24 24" width="16" height="16" fill="none" stroke="currentColor" stroke-width="2" stroke-linecap="round" stroke-linejoin="round"><path d="M4 8h13v6a5 5 0 0 1-5 5H9a5 5 0 0 1-5-5zM17 10h2a2 2 0 0 1 0 4h-2M8 3v2M12 3v2"/></svg></span><div style="flex:1"><h3>Café en grains</h3><p class="muet">Garde-manger · 1 sur 2 minimum</p></div><span class="lien-ext">Racheter ↗</span></div></div><div class="carte"><div class="ligne"><span class="vignette" style="background:#65A30D"><svg viewBox="0 0 24 24" width="16" height="16" fill="none" stroke="currentColor" stroke-width="2" stroke-linecap="round" stroke-linejoin="round"><path d="M12 7c-2-2-7-1.5-7 4 0 5 3 9 5 9 1 0 1.5-.5 2-.5s1 .5 2 .5c2 0 5-4 5-9 0-5.5-5-6-7-4zM12 7c0-2 1-4 3-4"/></svg></span><div style="flex:1"><h3>Compote</h3><p class="muet alerte">Périmée depuis 2 jours</p></div></div></div><div class="carte"><div class="ligne"><span class="vignette" style="background:#B91C1C"><svg viewBox="0 0 24 24" width="16" height="16" fill="none" stroke="currentColor" stroke-width="2" stroke-linecap="round" stroke-linejoin="round"><ellipse cx="12" cy="5" rx="7" ry="2.5"/><path d="M5 5v14c0 1.4 3.1 2.5 7 2.5s7-1.1 7-2.5V5"/></svg></span><div style="flex:1"><h3>Tomates pelées</h3><p class="muet">Périment dans 9 jours</p></div></div></div></section><section class="tuile t6"><div class="tete"><span class="poignee"><svg viewBox="0 0 24 24" width="18" height="18" fill="none" stroke="currentColor" stroke-width="2" stroke-linecap="round" stroke-linejoin="round"><circle cx="9" cy="6" r="1"/><circle cx="15" cy="6" r="1"/><circle cx="9" cy="12" r="1"/><circle cx="15" cy="12" r="1"/><circle cx="9" cy="18" r="1"/><circle cx="15" cy="18" r="1"/></svg></span><h2>À faire par les autres</h2><span class="retirer">×</span></div><div class="carte"><div class="ligne"><span class="photo" style="width:28px;height:28px;font-size:11px;background:#7C3AED">L</span><div style="flex:1"><h3>Passer l’aspirateur</h3><p class="muet">Aujourd’hui</p></div></div></div><div class="carte"><div class="ligne"><span class="photo" style="width:28px;height:28px;font-size:11px;background:#B45309">P</span><div style="flex:1"><h3>Promener le chien</h3><p class="muet">18 h 30</p></div></div></div></section><div class="ajout-tuile"><span style="font-size:26px;line-height:1">+</span>Ajouter une tuile</div></div></main></div></div>
+</body></html>

diff --git a/docs/mockups/cadre/cadre.css b/docs/mockups/cadre/cadre.css
@@ -302,3 +302,9 @@ p { margin: 0; }
 .mesure { position: absolute; right: 26px; bottom: 8px; background: var(--accent); color: #fff; font-size: 12px; font-weight: 700; padding: 3px 9px; border-radius: 999px; }
 .taille-texte { font-size: 11px; font-weight: 700; color: var(--gris); border: 1px solid var(--trait-net); border-radius: 8px; padding: 3px 7px; }
 .mini-saisie { display: inline-flex; align-items: center; justify-content: center; min-width: 52px; height: 36px; border: 1px solid var(--accent); border-radius: 10px; font-weight: 700; background: var(--surface); }
+.tuiles.fines { grid-auto-rows: 32px; }
+.repere { position: absolute; left: -6px; right: -6px; height: 0; border-top: 2px dashed var(--accent); pointer-events: none; z-index: 3; }
+.repere span { position: absolute; right: 8px; top: -26px; background: var(--accent); color: #fff; font-size: 12px; font-weight: 700; padding: 2px 9px; border-radius: 999px; }
+.tuile.cible { border: 2px solid var(--accent) !important; background: var(--accent-doux); }
+.tuile.souleve { opacity: .92; transform: rotate(-1.2deg) translate(18px, -10px); box-shadow: 0 18px 40px rgba(16,23,21,.22); border: 2px solid var(--accent) !important; z-index: 4; }
+.echange { position: absolute; left: 50%; top: 50%; transform: translate(-50%,-50%); background: var(--accent); color: #fff; font-weight: 700; font-size: 13px; padding: 7px 14px; border-radius: 999px; white-space: nowrap; z-index: 5; }

diff --git a/docs/mockups/cadre/README.md b/docs/mockups/cadre/README.md
@@ -39,8 +39,9 @@ node docs/mockups/cadre/rendre.js   # 1280 × 800 pour l'ordinateur, 390 × 844 
 | `28-admin-membre.html` | Gérer un membre : statut, code de mot de passe oublié, appareils, suppression du compte |
 | `29-connexion.html` | La page de connexion : identifiant et mot de passe |
 | `30-mot-de-passe-oublie.html` | Mot de passe oublié : le code donné par un administrateur, et le nouveau mot de passe |
-| `31-accueil-redimensionner.html` | Redimensionner une tuile à la main : coin, bord droit, bord bas — calée sur 12 colonnes et des rangées |
+| `31-accueil-redimensionner.html` | Redimensionner une tuile à la main : aimantée sur des longueurs entières et sur le bord des tuiles voisines |
 | `32-tache-tous-les-n-jours.html` | Une tâche « tous les N jours », et le premier jour de la série |
+| `33-accueil-echanger.html` | Échanger deux tuiles : lâchée sur une autre, elles échangent leur place |
 
 ## Ce que ce cadre décide
 
